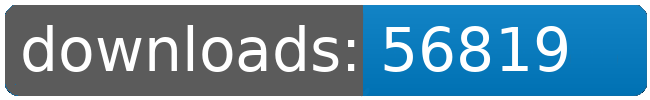
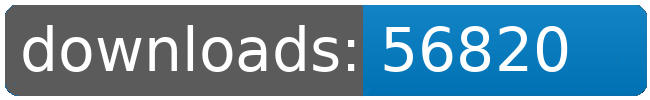
dl log written

Changed region(s): [[0.7692, 0.24, 0.8923, 0.72]]

diff --git a/README.md b/README.md
@@ -54,8 +54,8 @@
 		<td>6569</td>
 		<td>6583</td>
 		<td>6597</td>
-		<td>6611</td>
-		<td>+ 14</td>
+		<td>6612</td>
+		<td>+ 15</td>
 	</tr>
 	<tr>
 		<td>Korunak.Defense.Drones</td>
@@ -120,8 +120,8 @@
 		<td></td>
 		<td></td>
 		<td></td>
-		<td>56819</td>
-		<td>105</td>
+		<td>56820</td>
+		<td>106</td>
 	</tr>
 </table>
 </sub></sup>
@@ -212,8 +212,8 @@
 		<td>6569</td>
 		<td>6583</td>
 		<td>6597</td>
-		<td>6611</td>
-		<td>+ 14</td>
+		<td>6612</td>
+		<td>+ 15</td>
 	</tr>
 	<tr>
 		<td>Zone.of.Control</td>
@@ -245,8 +245,8 @@
 		<td></td>
 		<td></td>
 		<td></td>
-		<td>56819</td>
-		<td>105</td>
+		<td>56820</td>
+		<td>106</td>
 	</tr>
 </table>
 </sub></sup>
